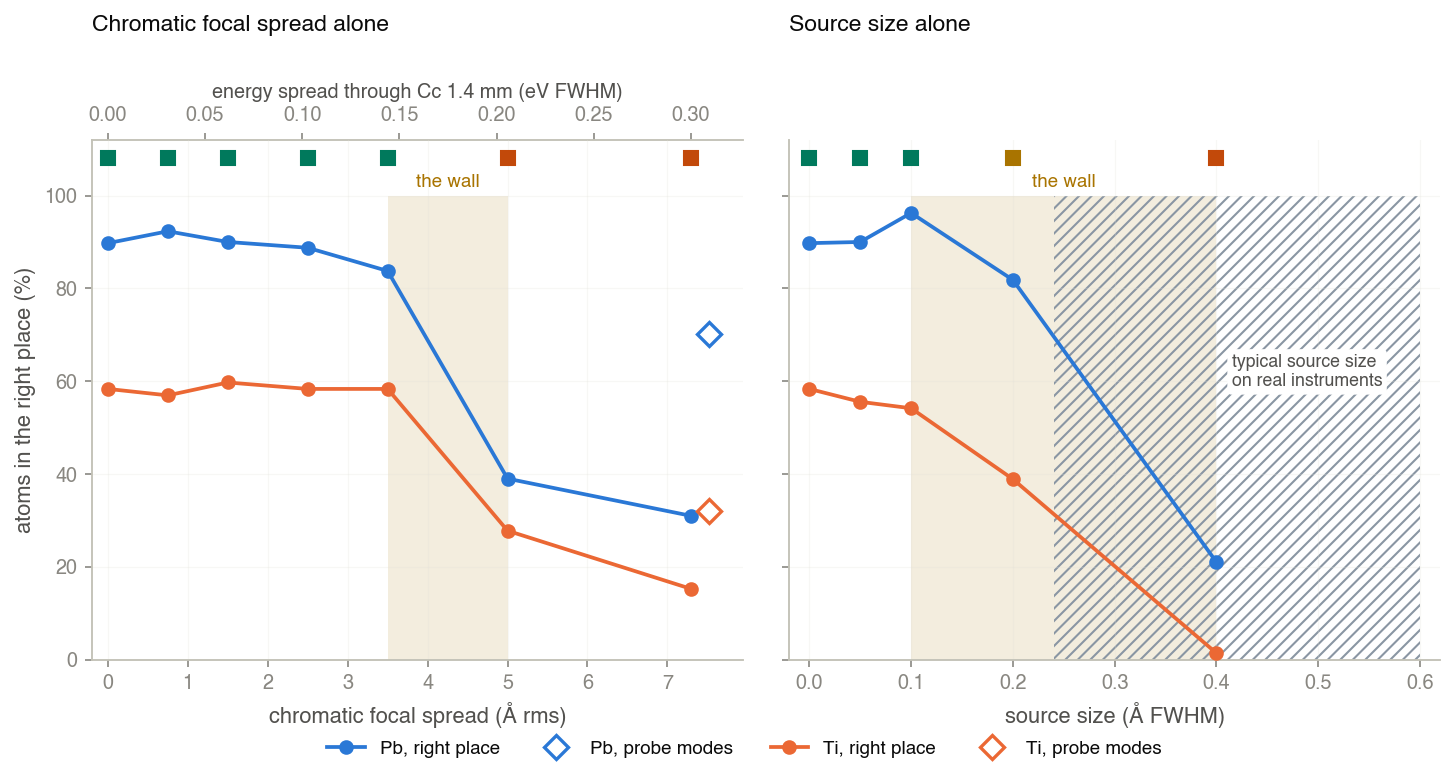
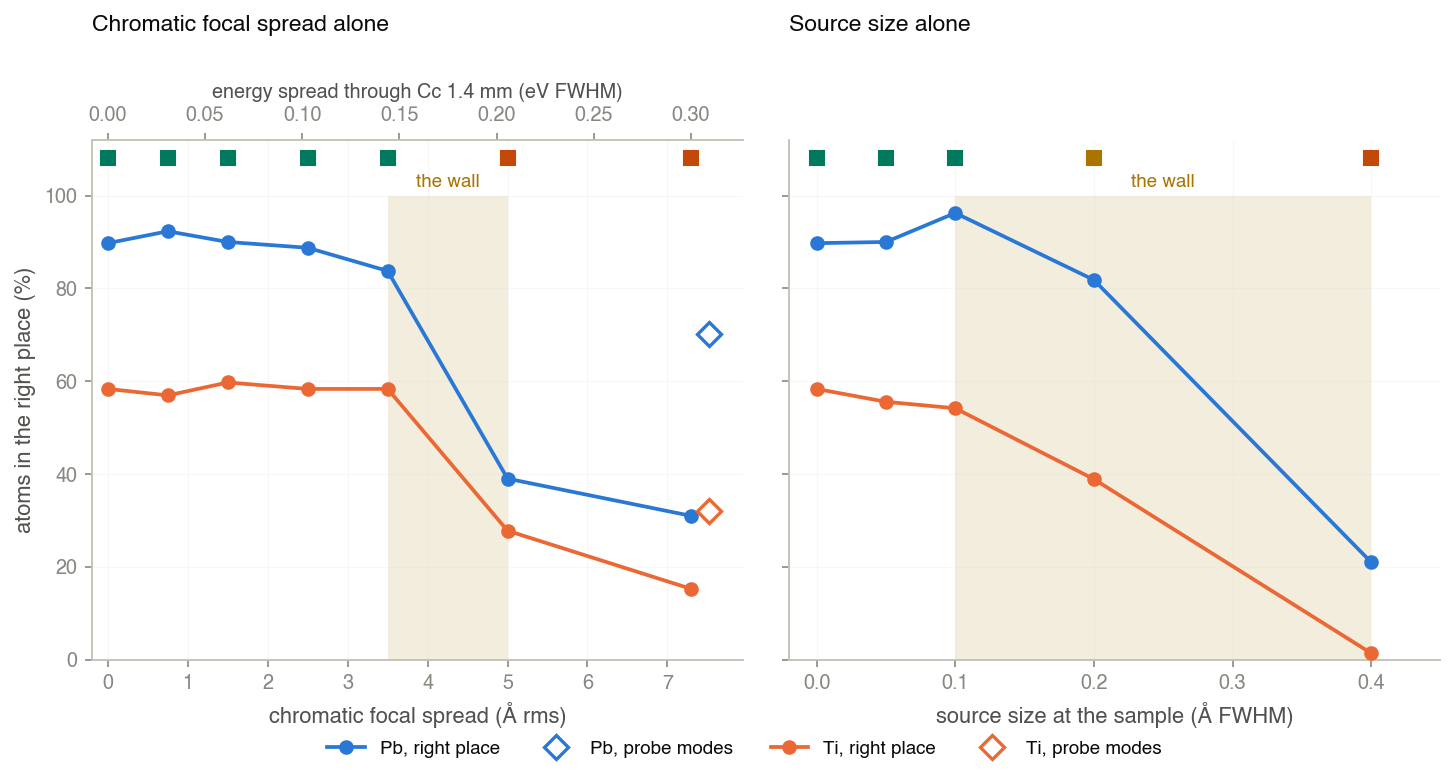
Coherence Wall page v12: simpler figures
Source figure: the Mono as one bold line and the plain X-FEG as a thin grey one,
labelled on the curves, no legend or range bars. Main figure: the hatched "typical
source" band removed (measured at 25-40 mrad with jitter; §06 gives the context).

diff --git a/aberration_experiment/page/mono_2026-10-12.html b/aberration_experiment/page/mono_2026-10-12.html
@@ -135,8 +135,7 @@
       <figcaption><span class="fig-name">fig_wall.png</span>
         <div class="howto"><b>How to read it</b> Share of Pb (blue) and Ti (orange) atoms in the right place, against each
           knob on its own, probe fixed. Squares: the verdict (green good, amber okay, red off). Amber band: between the last
-          good and the first off point. Diamonds: probe modes, drawn just right of their point. Hatched: effective
-          source sizes measured at 25–40 mrad, 0.24–0.6 Å (Müller et al. 2006); at 80 mrad the gun's own part is smaller (§06). Top axis: the energy spread giving that chromatic focal
+          good and the first off point. Diamonds: probe modes, drawn just right of their point. The source size the gun gives at the sample is in §06. Top axis: the energy spread giving that chromatic focal
           spread through a 1.4 mm C<sub>c</sub>.</div>
       </figcaption>
     </figure>
@@ -309,11 +308,11 @@
     <figure class="wide">
       {{FIG_SOURCE}}
       <figcaption><span class="fig-name">fig_source_current.png</span>
-        <div class="howto"><b>How to read it</b> Lines: the gun's source image at the sample (FWHM) against probe current,
-          at 80 mrad and 300 kV, for the X-FEG with and without the monochromator. Bands: the X-FEG's quoted reduced
-          brightness, 0.7–1.5 × 10<sup>8</sup> A/(m² sr V) (Thermo Fisher); with the monochromator at 90 meV we take that
-          divided by about 8, the share of the gun's ~0.7 eV that the slit keeps (an estimate, not a measurement). Dashed:
-          the sizes tested here, with their verdicts. Black bars: the Mono's current range for 0.1 and 0.2 Å. Grey band:
+        <div class="howto"><b>How to read it</b> Bold line: the gun's source image at the sample (FWHM) against probe current, at
+          80 mrad and 300 kV, for the X-FEG Mono at 90 meV; thin grey line: the X-FEG without the monochromator. Shading:
+          the X-FEG's quoted reduced brightness, 0.7–1.5 × 10<sup>8</sup> A/(m² sr V) (Thermo Fisher); with the monochromator at 90 meV we take that
+          divided by about 8, the share of the gun's ~0.7 eV that the slit keeps (an estimate, not a measurement). Dotted:
+          the sizes tested here, with their verdicts; the dots and numbers give the Mono's current for 0.1 and 0.2 Å. Grey band:
           effective sources measured at 25–40 mrad, which include vibration and other jitter on top of the gun's image;
           that jitter is in neither this figure nor our runs. Top axis: the time for 1e7 e/Å² over the 20 × 20 Å scan.</div>
       </figcaption>

diff --git a/analysis/make_mono_page.py b/analysis/make_mono_page.py
@@ -137,7 +137,7 @@ def fig_wall(recs, man):
     """Pb and Ti in the right place against each single effect, with the guessing level; probe-mode legs when landed."""
     fig, axs = plt.subplots(1, 2, figsize=(11.6, 4.5), sharey=True, gridspec_kw=dict(wspace=0.07))
     ref = recs["known_a080"]
-    for ax, grp, xkey, xlab in ((axs[0], "focal", "fs", "chromatic focal spread (Å rms)"), (axs[1], "source", "src", "source size (Å FWHM)")):
+    for ax, grp, xkey, xlab in ((axs[0], "focal", "fs", "chromatic focal spread (Å rms)"), (axs[1], "source", "src", "source size at the sample (Å FWHM)")):
         pts = [ref] + sorted([r for r in recs.values() if r["spec"]["group"] == grp and r["found"]], key=lambda r: r[xkey])
         x = np.array([r[xkey] for r in pts])
         for z, col, nm in ((82, PB, "Pb"), (22, TI, "Ti")):
@@ -160,11 +160,7 @@ def fig_wall(recs, man):
             ax.plot(r[xkey], 108, "s", ms=7, color=VCOL[r["v"]], zorder=6)
         ax.set_xlabel(xlab); ax.set_ylim(0, 112); ax.set_yticks(range(0, 101, 20)); ax.grid(alpha=.25, lw=.6)
         ax.spines[["top", "right"]].set_visible(False)
-    rs = man["real_source_A"]
-    axs[1].axvspan(rs[0], rs[1], ymax=100 / 112, facecolor="none", edgecolor="#8a96a3", hatch="////", lw=0, zorder=0)
-    axs[1].text(0.415, 62, "typical source size\non real instruments", fontsize=8.5, color=arm.INK2, va="center",
-                bbox=dict(boxstyle="round,pad=0.25", fc="white", ec="none"))
-    axs[1].set_xlim(-0.02, rs[1] + 0.02)
+    axs[1].set_xlim(-0.02, 0.45)
     axs[0].set_xlim(-0.2, 7.95)
     top = axs[0].secondary_xaxis("top", functions=(lambda f: f / (FS_PER_EV_MM * 1.4), lambda e: e * FS_PER_EV_MM * 1.4))
     top.set_xlabel("energy spread through Cc 1.4 mm (eV FWHM)", fontsize=9.5)
@@ -238,31 +234,37 @@ def mono_current_range(d_A):
 
 
 def fig_source():
-    """The gun's source image at the sample against probe current at 80 mrad: the X-FEG with and without the 90 meV
-    monochromator, beside the source sizes tested; top axis, the scan time for 1e7 e/A^2 over the 20 x 20 A scan."""
+    """The gun's source image at the sample against probe current at 80 mrad: the X-FEG Mono at 90 meV (bold, its
+    brightness range shaded) and without the monochromator (thin grey), beside the source sizes tested; top axis, the
+    scan time for 1e7 e/A^2 over the 20 x 20 A scan."""
     I = np.logspace(np.log10(0.3), np.log10(300), 200) * 1e-12
     fig, ax = plt.subplots(figsize=(11.6, 4.6))
-    for name, cut, col in (("X-FEG, no monochromator", 1.0, arm.INK2), ("X-FEG Mono at 90 meV (estimate)", MONO_CUT, arm.INK)):
-        a = source_fwhm_A(I, BR_XFEG[1] / cut); b = source_fwhm_A(I, BR_XFEG[0] / cut)
-        ax.fill_between(I * 1e12, a, b, color=col, alpha=.22 if cut > 1 else .12, lw=0)
-        ax.plot(I * 1e12, np.sqrt(a * b), "-", color=col, lw=2, label=name)
+    ax.axhspan(0.24, 0.6, color="#8a96a3", alpha=.10, lw=0)
+    ax.text(0.33, 0.585, "effective sources measured at 25–40 mrad, jitter included (Müller et al. 2006)",
+            ha="left", va="top", fontsize=8.3, color=arm.INK2)
     for d, t, c in ((0.1, "0.1 Å: good at 2.5 Å with modes", OK), (0.2, "0.2 Å: okay with modes", WARN),
                     (0.4, "0.4 Å: off, even alone", STOP)):
-        ax.axhline(d, color=c, lw=1.4, ls="--"); ax.text(0.32, d + 0.008, t, fontsize=8.8, color=c, va="bottom")
-    ax.axhspan(0.24, 0.6, color="#8a96a3", alpha=.10, lw=0)
-    ax.text(300 * 0.97, 0.585, "effective sources measured at 25–40 mrad, instabilities included (Müller et al. 2006)",
-            ha="right", va="top", fontsize=8.3, color=arm.INK2)
+        ax.axhline(d, color=c, lw=1, ls=":"); ax.text(0.33, d + 0.007, t, fontsize=8.8, color=c, va="bottom")
+    lo_b, hi_b = (source_fwhm_A(I, BR_XFEG[1] / MONO_CUT), source_fwhm_A(I, BR_XFEG[0] / MONO_CUT))
+    ax.fill_between(I * 1e12, lo_b, hi_b, color=arm.INK, alpha=.13, lw=0)
+    mono = np.sqrt(lo_b * hi_b)
+    ax.plot(I * 1e12, mono, "-", color=arm.INK, lw=2.4)
+    plain = source_fwhm_A(I, np.sqrt(BR_XFEG[0] * BR_XFEG[1]))
+    ax.plot(I * 1e12, plain, "-", color="#8a96a3", lw=1.2)
+    k = np.searchsorted(mono, 0.5)
+    ax.text(I[k] * 1e12 * 0.92, 0.5, "X-FEG Mono at 90 meV (estimate)", ha="right", va="center", fontsize=9.5,
+            color=arm.INK, fontweight="bold")
+    ax.text(250, plain[-1] * 0.93, "X-FEG, no monochromator", ha="right", va="top", fontsize=9, color="#6f7b8a")
     for d in (0.1, 0.2):
         lo, hi = mono_current_range(d)
-        ax.plot([lo, hi], [d, d], "-", color=arm.INK, lw=5, solid_capstyle="butt", alpha=.8)
-        ax.text(np.sqrt(lo * hi), d - 0.012, f"Mono: ≤ {lo:.0f}–{hi:.0f} pA", ha="center", va="top", fontsize=8.5, color=arm.INK)
+        ax.plot([np.sqrt(lo * hi)], [d], "o", color=arm.INK, ms=6, zorder=5)
+        ax.text(hi * 1.12, d - 0.004, f"Mono: {lo:.0f}–{hi:.0f} pA", ha="left", va="top", fontsize=9, color=arm.INK)
     ax.set_xscale("log"); ax.set_xlim(0.3, 300); ax.set_ylim(0, 0.6)
     ax.set_xlabel("probe current (pA)"); ax.set_ylabel("the gun's source image at the sample (Å FWHM)")
     t = lambda i: 1e7 * SCAN_A2 * 1.602e-19 / (np.maximum(i, 1e-9) * 1e-12)
     top = ax.secondary_xaxis("top", functions=(t, t))
     top.set_xlabel("time for 1e7 e/Å² over the 20 × 20 Å scan (s)", fontsize=9)
-    ax.legend(loc="upper left", bbox_to_anchor=(0.0, 0.83), fontsize=9, frameon=False)
-    ax.spines[["right"]].set_visible(False); ax.grid(alpha=.25, lw=.6)
+    ax.spines[["right"]].set_visible(False); ax.grid(alpha=.2, lw=.6)
     return arm.save(fig, "fig_source_current.png")
 
 WHERE_ROWS = [("chromatic focal spread only (§02)", ["known_a080", "fs0p75", "fs1p5", "fs2p5", "fs3p5", "fs5", "fs5_mix"]),

diff --git a/aberration_experiment/page/MONO_PAGE.md b/aberration_experiment/page/MONO_PAGE.md
@@ -1,6 +1,10 @@
 # The Coherence Wall page — how to fill it in and republish
 
 PUBLISHED: https://claude.ai/artifact/B7ep8BpAMVdKvrnXywACq3
+- version 12, 2026-10-21: simpler figures. Source figure: one bold line (the Mono) and one thin grey (no monochromator),
+  labelled on the curves, dotted verdict lines, dots for the Mono's current at 0.1 / 0.2 Å, no legend or bars. fig_wall:
+  the hatched "typical source size on real instruments" band removed (measured at 25-40 mrad with jitter; §06 has
+  the context); its source axis says "at the sample".
 - version 11, 2026-10-21: the user read the monochromator bars (Å of focus spread) as source sizes. The where-it-works
   figure now says so in its title ("a spread of FOCUS along the beam ... not the source size"), bars read "gives x Å of
   focus spread", rows read "source 0.1 Å at the sample (Mono: ≤ 4-9 pA at 80 mrad)", and its caption names the two Å.
